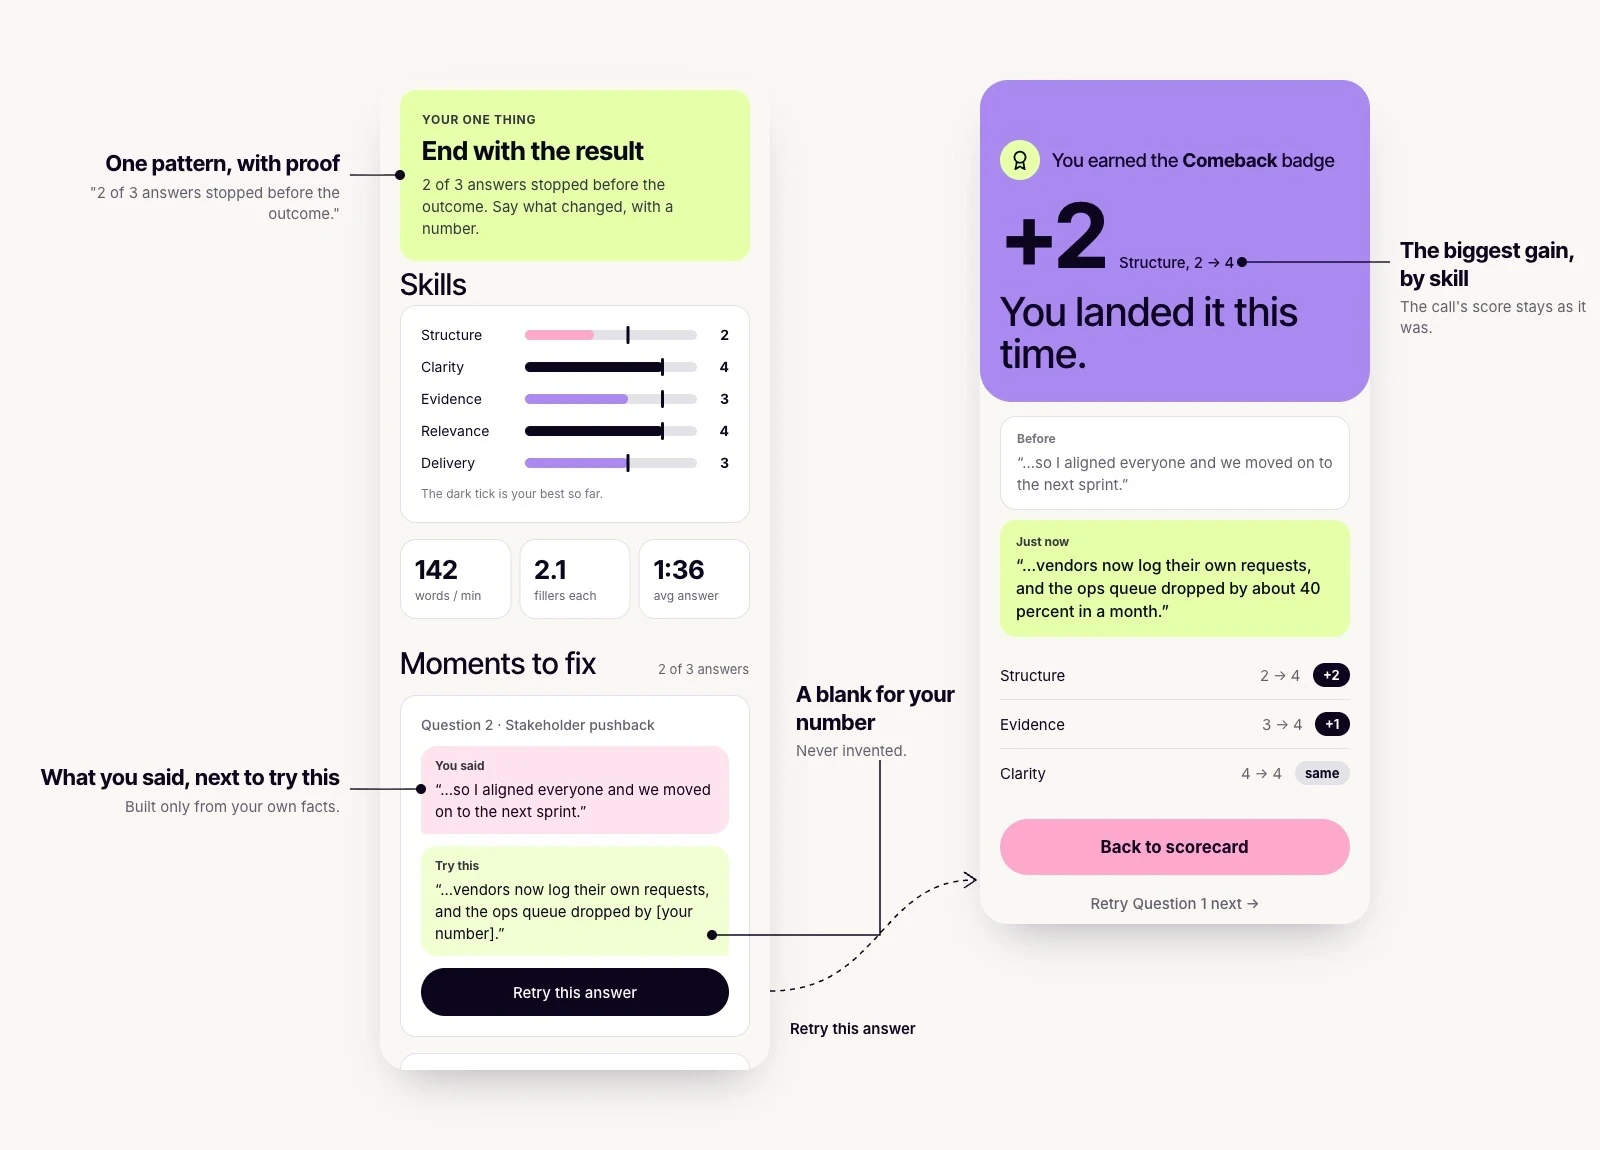
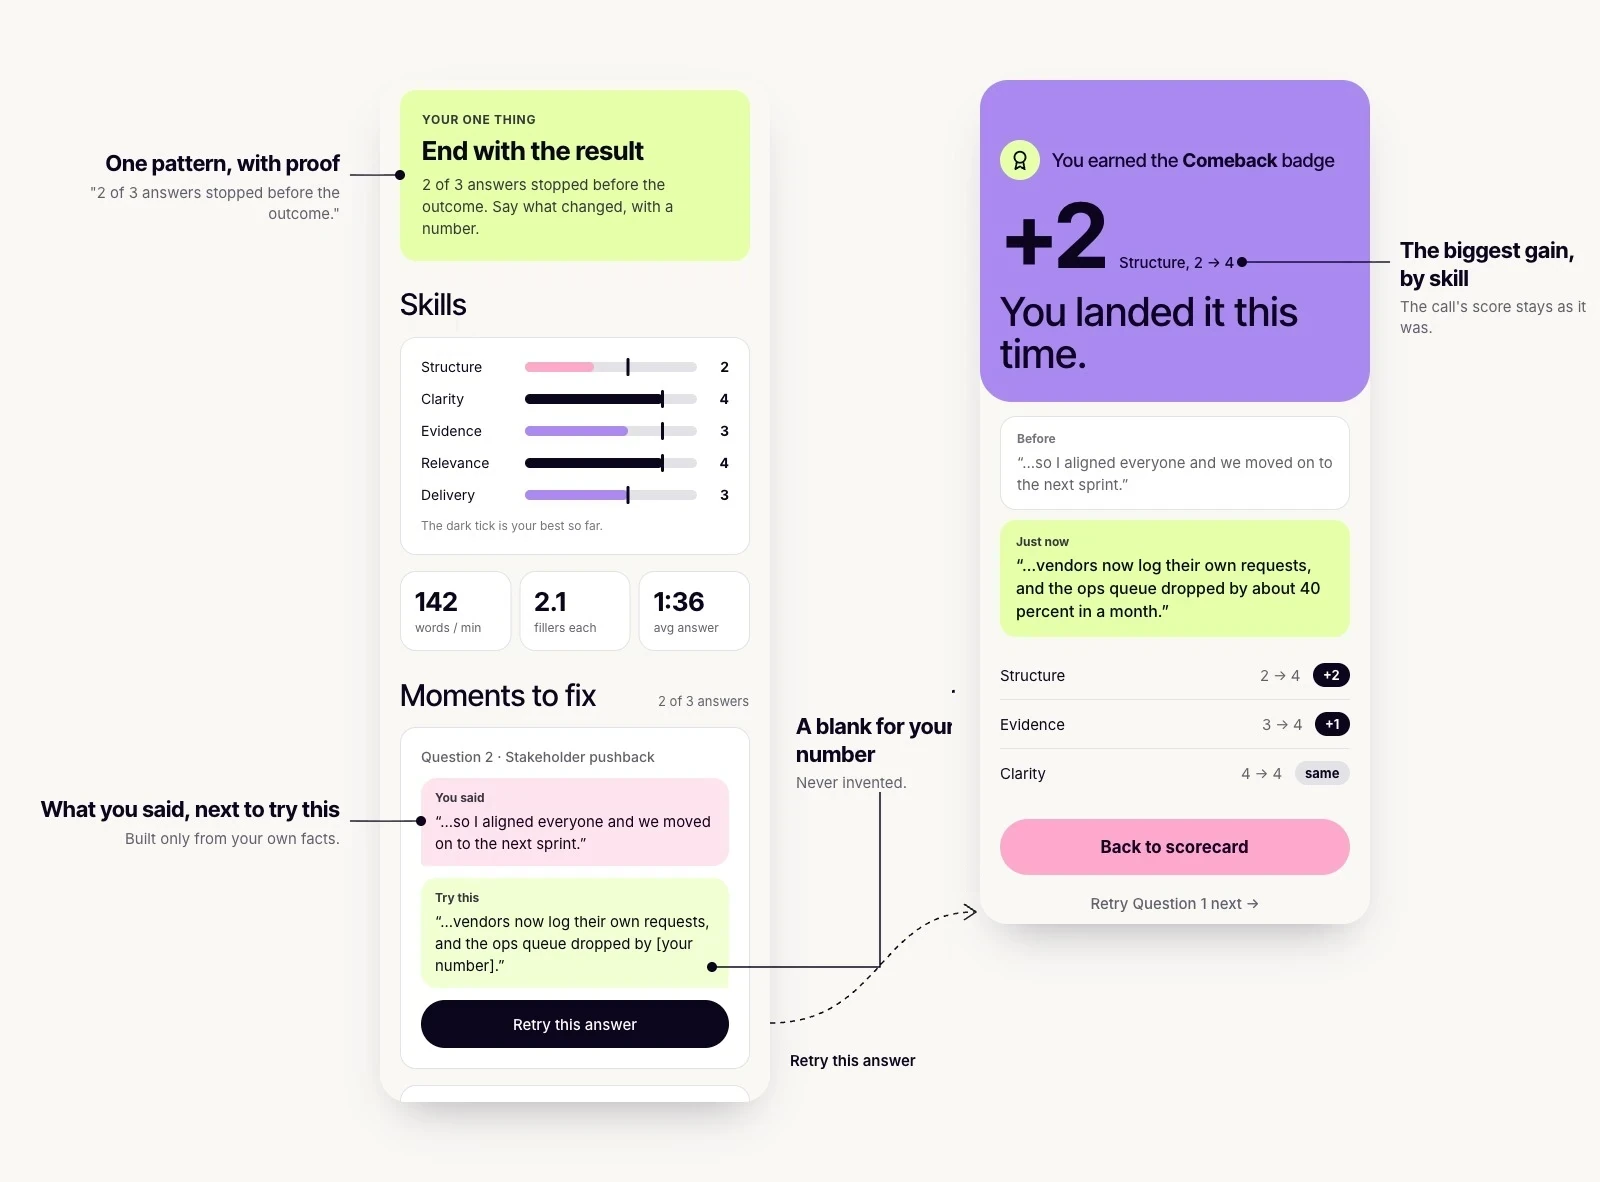
Give the Skills heading the same spacing as Moments to fix
Claude-Session: https://claude.ai/code/session_01SaTnLuHX4L7wkiCbgU6nxM

diff --git a/index.html b/index.html
@@ -85,7 +85,7 @@
       <p>Not a list of flaws. One pattern to work on, with proof, like "2 of 3 answers ended before the result". Then your two or three weakest moments: what you said, next to how to say it better, built only from your own facts and judged against your level. A missing number stays a blank for you to fill. It's never invented.</p>
       <p>The call's score stays as it was. A retry is scored on its own, next to it. So when it says "+2 on structure", you really got better.</p>
     </div>
-    <figure class="frame" style="margin-top:40px"><div class="frame-in"><img src="assets/12-scorecard.webp" width="1600" height="1150" loading="lazy" alt="The scorecard and the retry result, annotated. One pattern, with proof: 2 of 3 answers stopped before the outcome. What you said, next to try this. A blank for your number, never invented. Retry this answer leads to the retry result, where the biggest gain is shown by skill: +2, structure, 2 to 4."></div></figure>
+    <figure class="frame" style="margin-top:40px"><div class="frame-in"><img src="assets/12-scorecard.webp" width="1600" height="1182" loading="lazy" alt="The scorecard and the retry result, annotated. One pattern, with proof: 2 of 3 answers stopped before the outcome. What you said, next to try this. A blank for your number, never invented. Retry this answer leads to the retry result, where the biggest gain is shown by skill: +2, structure, 2 to 4."></div></figure>
     <details class="uth wide">
       <summary><span>Under the hood</span> Judged against your level</summary>
       <p style="margin-top:0">Each answer is scored 1 to 5 on five skills: clarity (can it be followed on first listen), structure (situation, action, result, in that order), evidence (specifics, with a number or outcome), relevance (does it answer the question asked) and delivery (pace, filler, hedging). The bar moves with your level. Junior: what you did and learned. Mid: what you owned and the outcome. Senior and above: scope, decisions, influence and tradeoffs. A 3 is a passable answer at your level. Technical correctness is never graded.</p>
